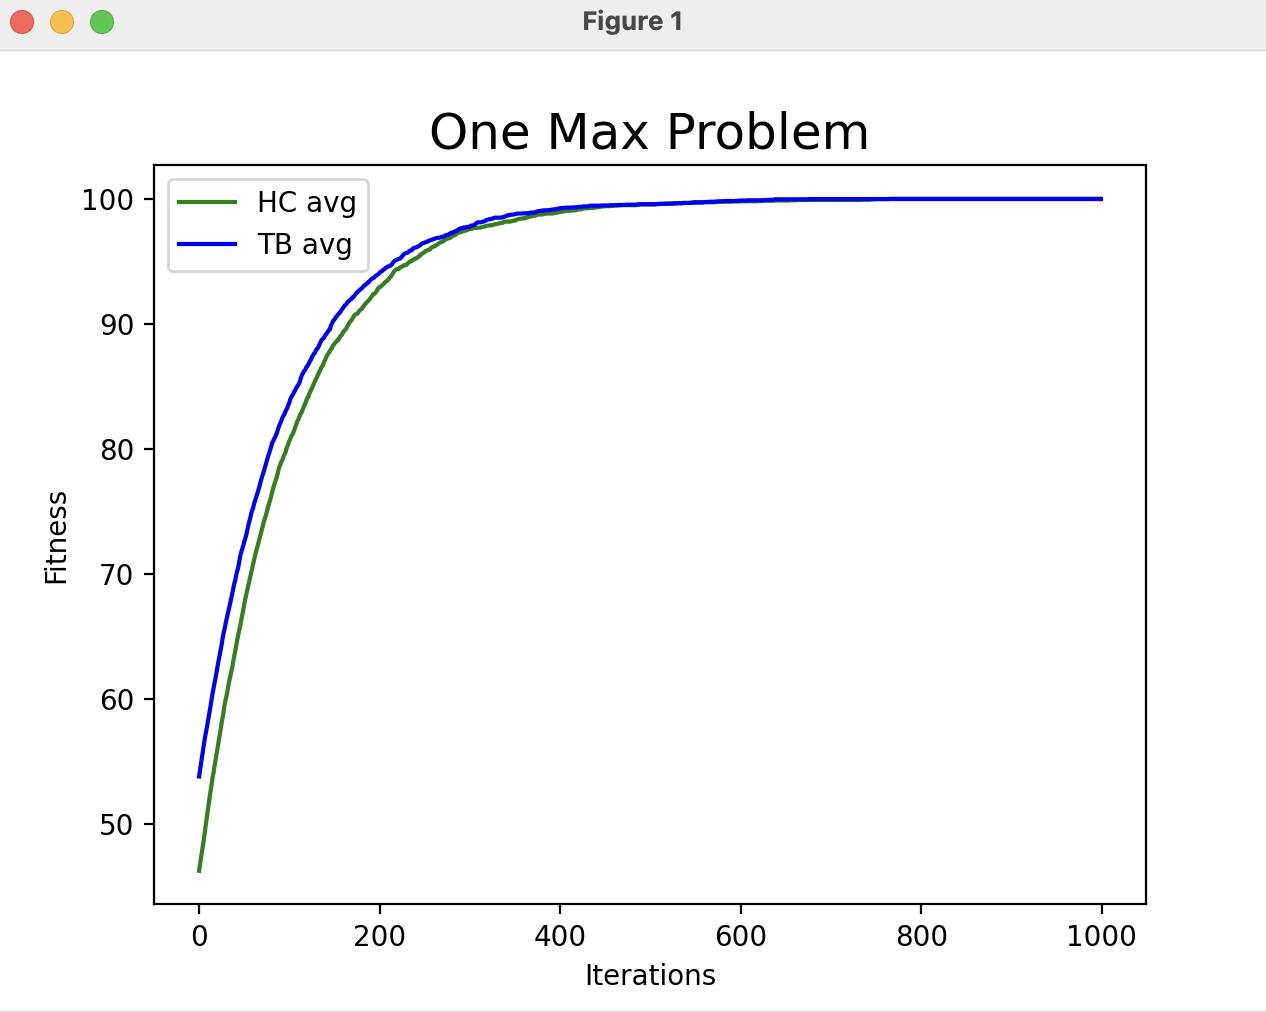
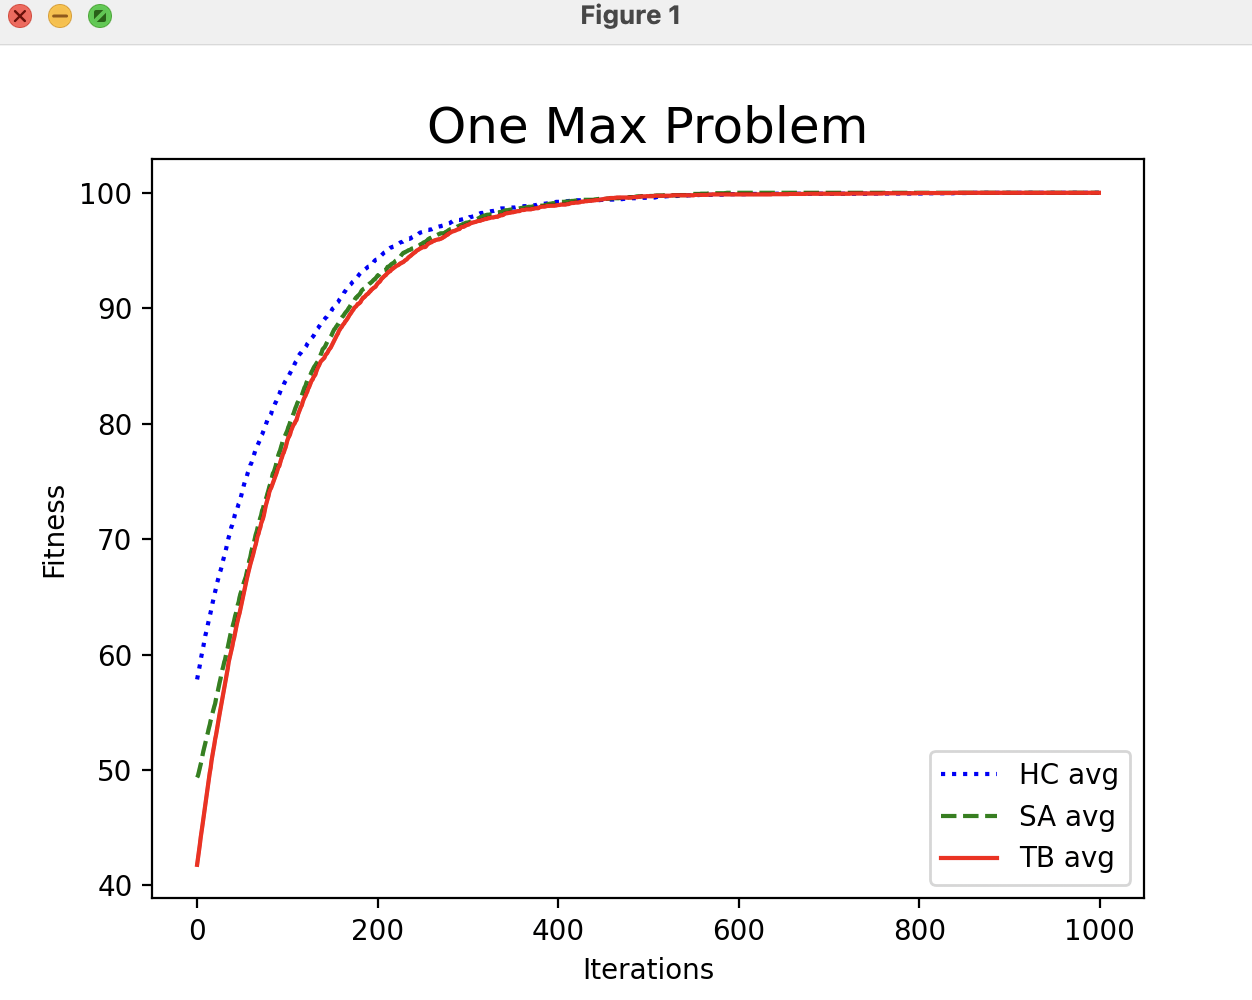
畫圖方式修改

diff --git a/functions.py b/functions.py
@@ -2,6 +2,7 @@ import random
 import functions, varibles
 import matplotlib.pyplot as plt
 from HW2 import HW2
+from HW3 import HW3
 
 # ------- SHARE -------
 # 初始一組解(one max problem)
@@ -64,7 +65,6 @@ content = '⎨ Deceptive Function Def. ⎬\n   ( n = 4 for example) \n----------
 funct = '  f(0000) = 5   * optimal\n  f(0001) = 1\n  f(0010) = 1\n  f(0011) = 2\n.\n.\n.\n  f(1100) = 2\n  f(1101) = 3\n  f(1110) = 3\n  f(1111) = 4\n'
 
 def Draw(algo, problem, result, global_best):
-
     # ------ 印出結果 ------
     print("⎯⎯⎯⎯⎯⎯⎯⎯⎯⎯⎯⎯⎯⎯⎯⎯⎯⎯⎯⎯⎯⎯⎯⎯")
     print("在第", global_best['iter'], "回時有最佳解:",global_best['sol'], "，\n內容為：", global_best['list'])
@@ -73,7 +73,12 @@ def Draw(algo, problem, result, global_best):
     title = 'Deceptive Problem'
     if problem == 1: #oneMax
         HC_result = HW2.HW2_main(draw=False)
-        plt.plot(HC_result, color='g', label="HC avg")
+        if algo == 'SA': #畫HC+SA(本身)
+            plt.plot(HC_result, color='b:', label="HC avg")
+        elif algo == 'TB': #畫HC+SA+TB(本身)
+            SA_result =  HW3.HW3_main(draw=False)
+            plt.plot(HC_result, 'b:', label="HC avg")
+            plt.plot(SA_result, 'g--', label='SA avg')
         title = 'One Max Problem'
     if problem == 2: #deceptive
         y_top = result[len(result)-1]; y_bottom = result[0]
@@ -91,7 +96,7 @@ def Draw(algo, problem, result, global_best):
         )
     # ------ 畫圖用 ------
     #plt1
-    plt.plot(result, color='b', label='{0} avg'.format(varibles.ALGO))
+    plt.plot(result, color='r', label='{0} avg'.format(varibles.ALGO)) #(本身)
     plt.xlabel('Iterations', fontsize="10") 
     plt.ylabel('Fitness', fontsize="10") 
     plt.title(title, fontsize="18") 

diff --git a/HW3/HW3.py b/HW3/HW3.py
@@ -63,15 +63,16 @@ def Simulated_Annealing(n, type):
     return (sumlist, global_best) 
 
 
-def HW3_main():
-    while(1):
-        print("=====================================================")
-        print("for【One Max Problem】enter 1 \nfor【Deceptive Problem】enter 2 ")
-        print("=====================================================")
-        problem = int(input('please input: '))  
-        if problem == 1 or problem == 2 : 
-            break
-
+def HW3_main(draw):
+    problem = 1
+    if draw:
+        while(1):
+            print("=====================================================")
+            print("for【One Max Problem】enter 1 \nfor【Deceptive Problem】enter 2 ")
+            print("=====================================================")
+            problem = int(input('please input: '))  
+            if problem == 1 or problem == 2 : 
+                break
     if problem == 1: #One Max Problem
         n = varibles.BIT_LEN
         type = 'One Max Problem'
@@ -80,6 +81,7 @@ def HW3_main():
         type = 'Deceptive Problem'
 
     (result, global_best) = Simulated_Annealing(n, type)
-  
-    functions.Draw(varibles.ALGO, problem, result, global_best)
-
+    
+    if(draw):
+        functions.Draw(varibles.ALGO, problem, result, global_best)
+    else: return result

diff --git a/main.py b/main.py
@@ -27,7 +27,7 @@ def which_algo(type):
     elif(type == 'HC'):    
         HW2.HW2_main(draw=True)
     elif(type == 'SA'):
-        HW3.HW3_main()
+        HW3.HW3_main(draw=True)
     elif(type == 'TB'):
         HW4.HW4_main()
 
